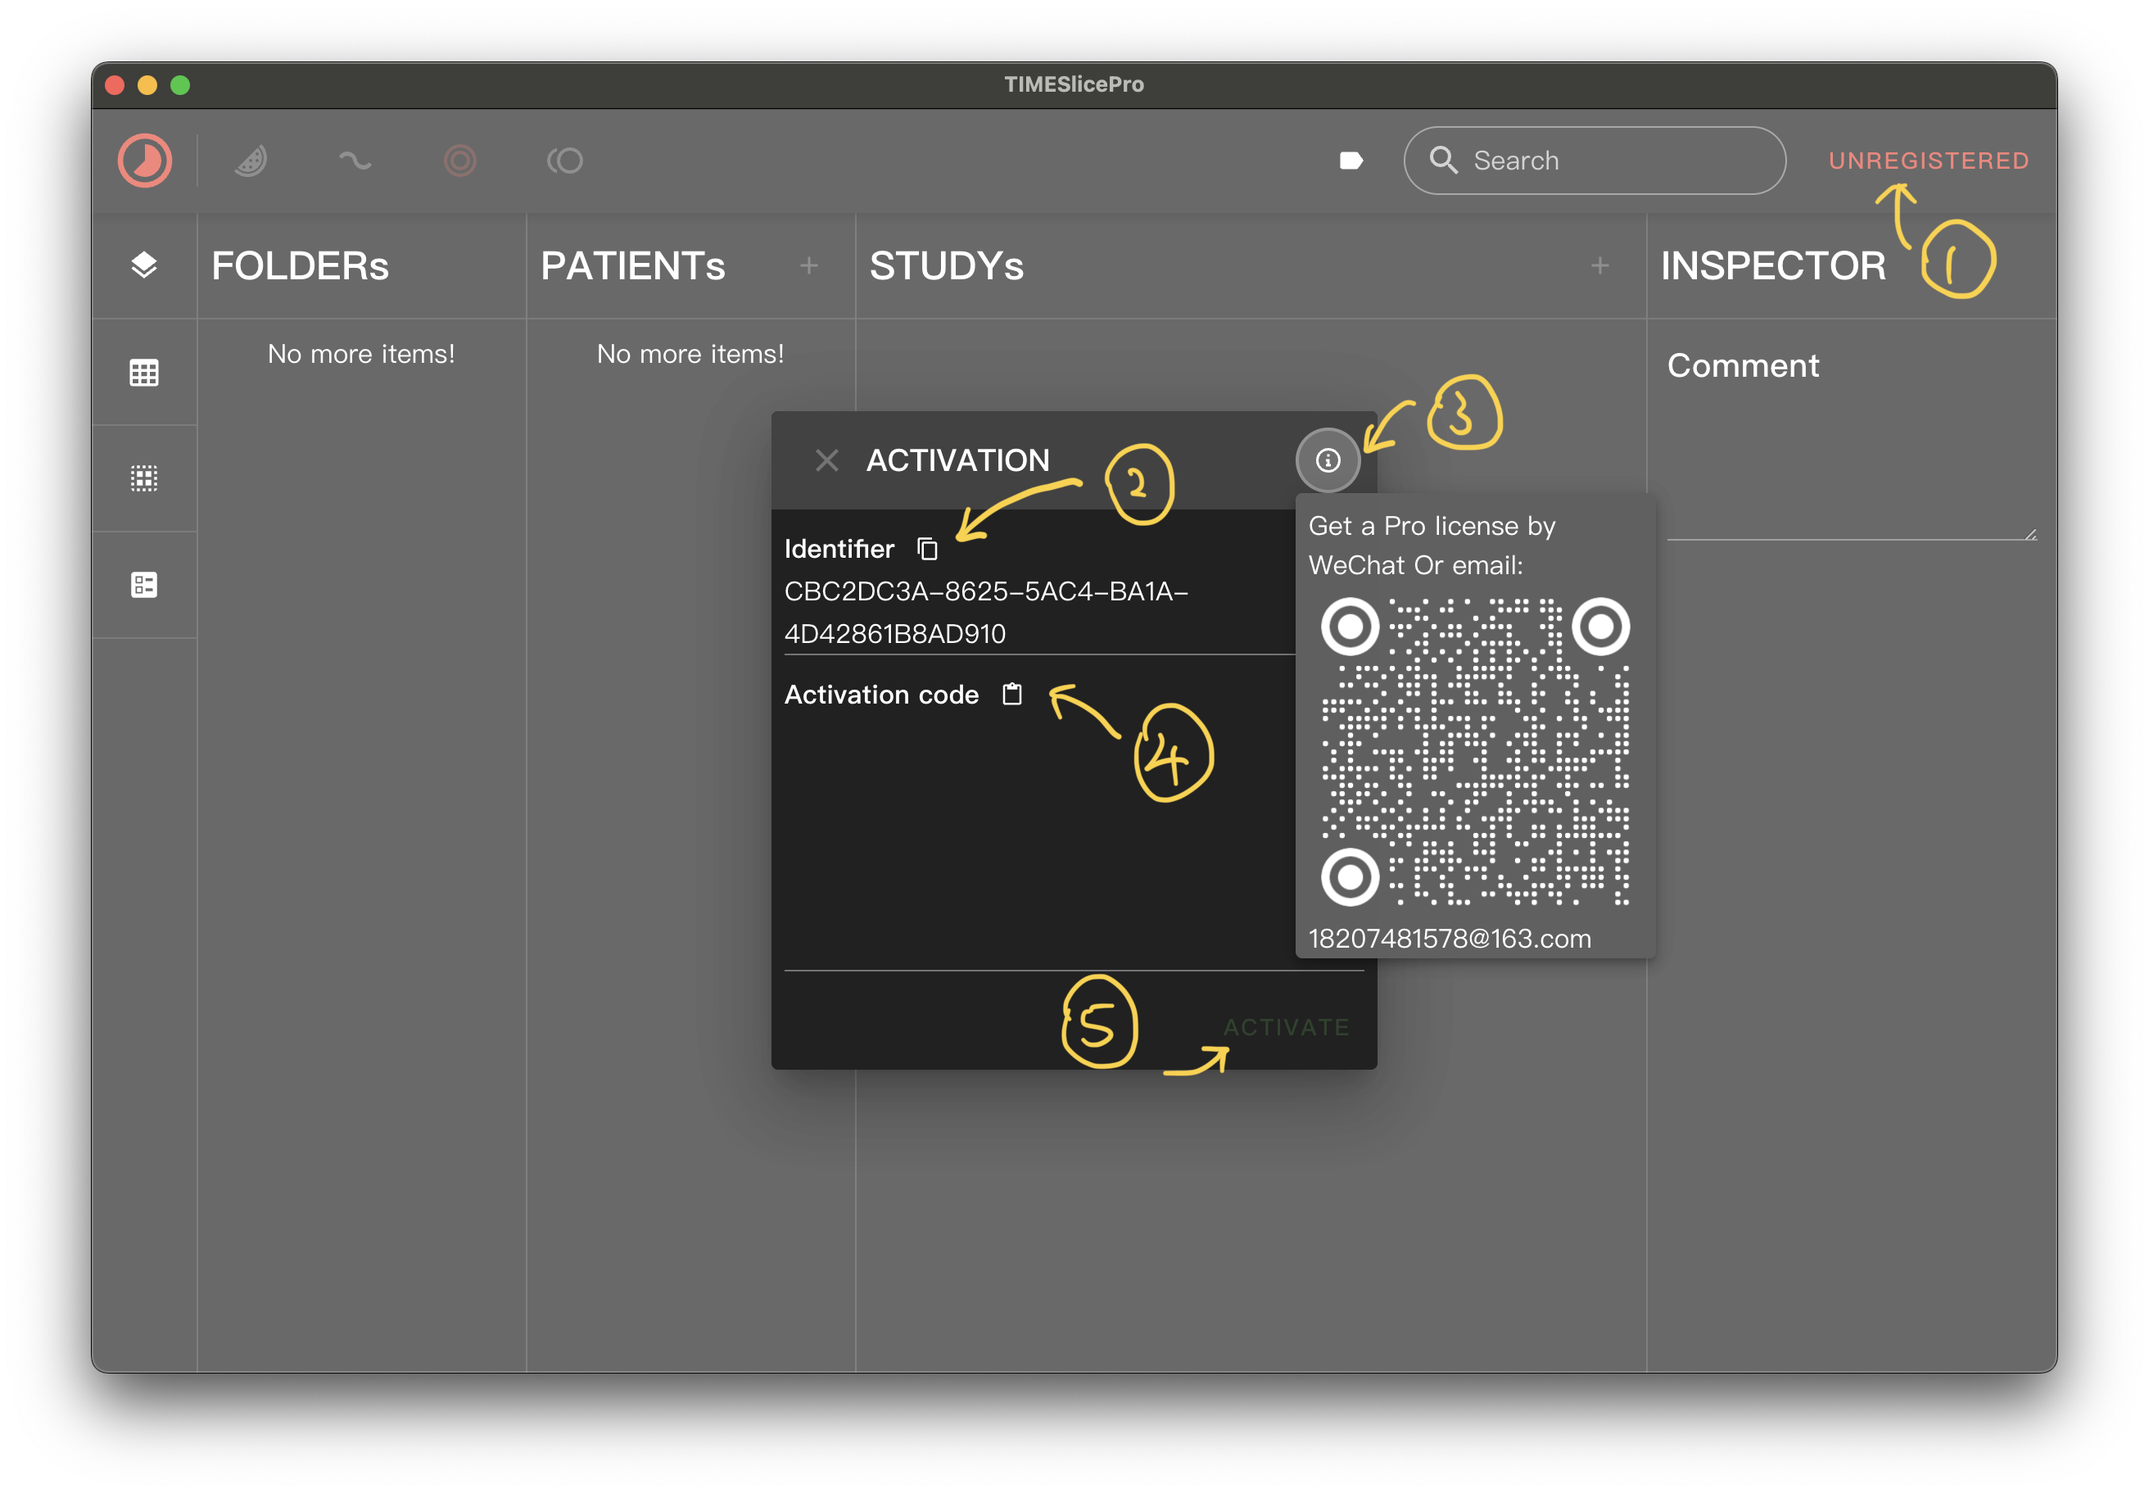
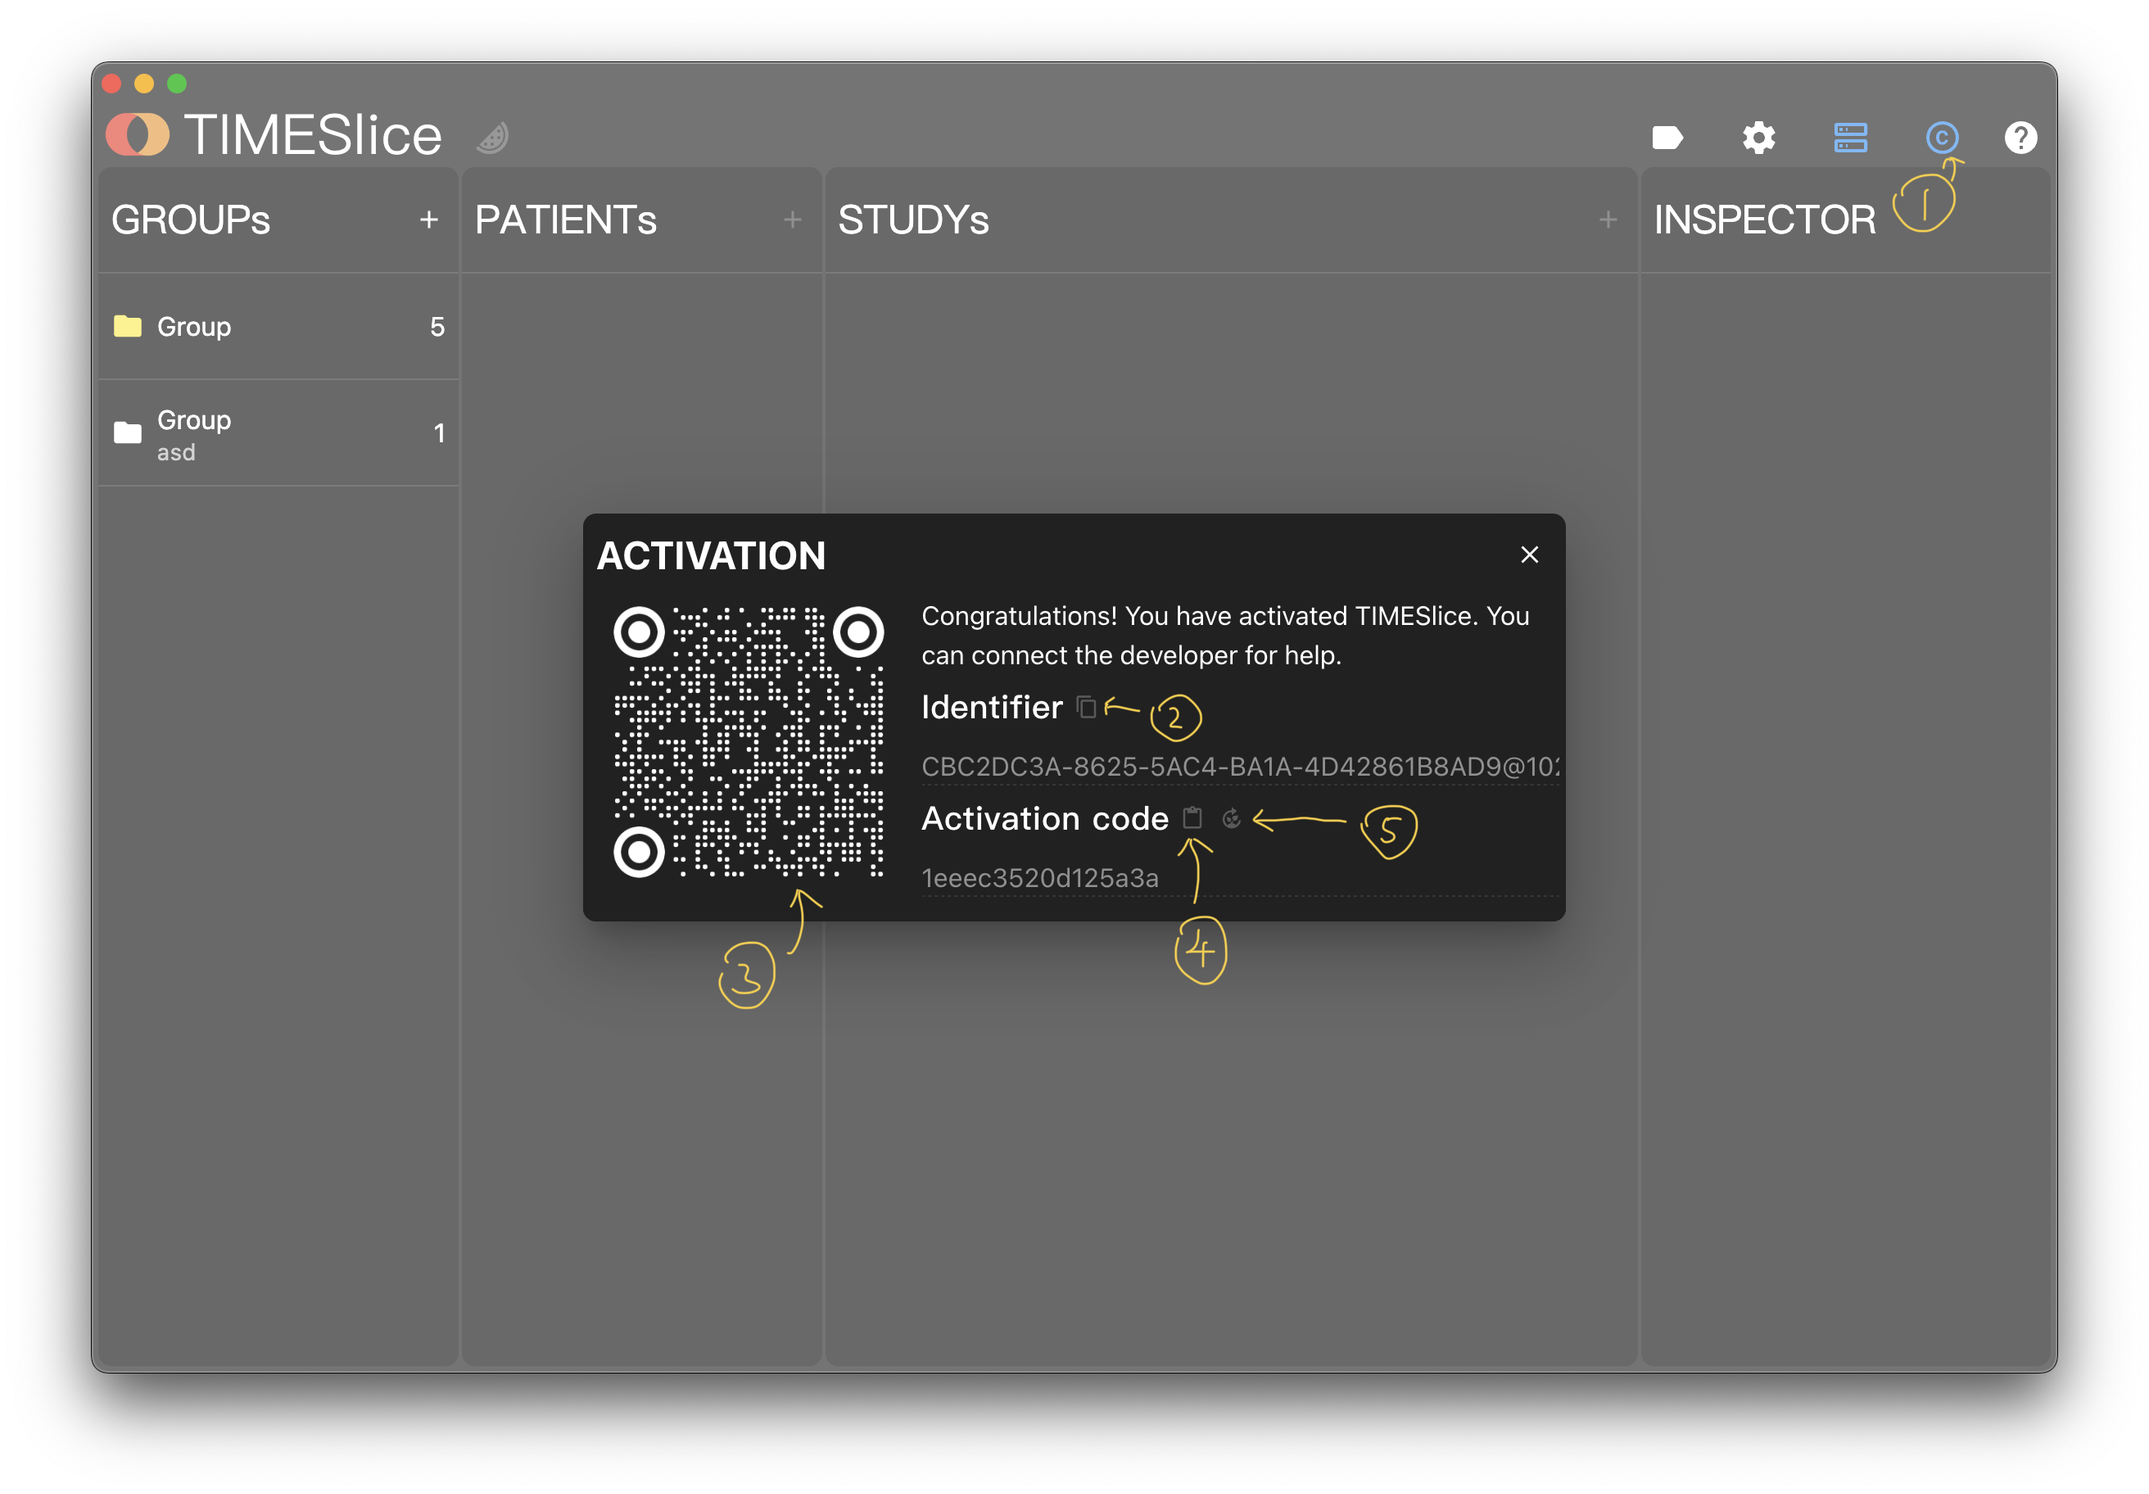
发布TIMESlice5

diff --git a/docs/.vitepress/theme/style/var.css b/docs/.vitepress/theme/style/var.css
@@ -1,9 +1,9 @@
 :root {
     /* 标题 */
     --vp-home-hero-name-color: transparent;
-    --vp-home-hero-name-background: linear-gradient( 135deg, #FFD479 10%, #FFD479 100%);
+    --vp-home-hero-name-background: linear-gradient( 135deg, #E15241 10%, #E5A14E 100%);
 
     /* 图标背景 */
-    --vp-home-hero-image-background-image: linear-gradient( 135deg, #FFD479 10%, #FFD479 100%);
+    --vp-home-hero-image-background-image: linear-gradient( 135deg, #E15241 10%, #E5A14E 100%);
     --vp-home-hero-image-filter: blur(150px);
 }

diff --git a/docs/download.md b/docs/download.md
@@ -1,32 +1,24 @@
 # 下载
 
-如果这个软件对你的论文有帮助请引用如下文献:
+如果这个软件对你的论文有帮助请引用我目前仅有的两篇文献:
 
-Li, Xiaogang, et al. "Automatic quantification of epicardial adipose tissue volume." Medical Physics 48.8 (2021): 4279-4290.
+Xiaogang Li, Lianchang Ji, Rongrong Zhang, Hongrui You, Lisheng Xu, Stephen E. Greenwald, Yu Sun, Libo Zhang, Benqiang Yang, “COACT: Coronary artery centerline tracker,” Medical Physics, p. mp.16873, Dec. 2023, doi: 10.1002/mp.16873.
 
-Li, Xiaogang, et al. "COACT: Coronary artery centerline tracker." Medical Physics 51.5 (2024): 3541-3554.
+Xiaogang Li, Yu Sun, Lisheng Xu, Stephen E. Greenwald, Libo Zhang, Rongrong Zhang, Hongrui You, Benqiang Yang, “Automatic quantification of epicardial adipose tissue volume,” Medical Physics, vol. 48, no. 8, pp. 4279–4290, Aug. 2021, doi: 10.1002/mp.15012.
 
 并将软件下载地址 (https://slice-doc.netlify.app/) 插入到文献合适位置.
 
-微信扫描如下二维码或用邮件（18207481578@163.com）开发者获得pro许可.
+微信扫描如下二维码或用邮件（18207481578@163.com）联系开发者获得许可，最好是用微信，发邮件我也会让你加微信的。
 
 ![](/images/QR.png)
 
-## 下载 MacOS Apple Silicon 版本 v5.0.0
-Coming soon...
-<!-- <a href='https://www.jianguoyun.com/p/DYKvQKYQ-MmzBhinv4AGIAA'>地址：坚果云</a> -->
+## 下载 MacOS Apple Silicon v5.0.0
 
-## 下载 MacOS Apple Silicon 版本 v4.19.0
+<a href='https://www.jianguoyun.com/p/DYKvQKYQ-MmzBhinv4AGIAA'>地址：坚果云</a>
 
-<a href='https://www.jianguoyun.com/p/DRWr1YAQ-MmzBhjA5uQFIAA'>地址：坚果云</a>
+## 下载 Windows v5.0.0
 
-## 下载 MacOS Intel 版本 v4.19.0
-
-<a href='https://www.jianguoyun.com/p/DXXDeBgQ-MmzBhikkegFIAA'>地址：坚果云</a>
-
-## 下载 Windows version v4.19.0
-
-<a href='https://www.jianguoyun.com/p/DVIeFcwQ-MmzBhiD5-QFIAA'>地址：坚果云</a>
+<a href='https://www.jianguoyun.com/p/DSjBG_QQ-MmzBhjkv4AGIAA'>地址：坚果云</a>
 
 
 ## 下载人工智能模型
@@ -44,125 +36,7 @@ Coming soon...
 ![](/images/error.png)
 
 
-# Update log
+# 更新日志
 
-## V4.19.0
-- Add cube module.
-- Fix the paint tool related problem.
-
-## V4.18.0
-- Add transformation module.
-- Add slice representation in volume view.
-- Add box representation in volume view.
-- Fix the Chinese characters related problem.
-- Fix the image direction related problem.
-
-## V4.17.0
-- Add zoom menu for adjusting window content.
-- Add move database function.
-- Add section export function.
-- Fix the Chinese characters related problem.
-
-## V4.16.0
-- Show pixel value at cursor on each view.
-- Support capturing overlay content on each view.
-- Add PAT and Plaque content in Tube module.
-
-## V4.15.0
-- Improve the seg model manager.
-- Add more settings for radiomics.
-
-## V4.14.0
-- Add volume rendering module.
-
-## V4.13.0
-- Add color manager for patient.
-- Adjust the view layout of the centerline module. 
-- Support multi rows for each patient in project module.
-- Fix some bugs.
-
-## V4.12.0
-- Add support for png and jpg image.
-- Add plug-in AI model management.
-- Separate the annotation function to a dependent module.
-- Add support for annotating the png and jpg image.
-
-## V4.11.0
-- Add image information for the Loop tool.
-- Add Lasso tool in the MPR mode.
-- Add Draw tool in the Tube module.
-- Optimize the snap function in the Seg module.
-
-## V4.10.0
-- Add more tools to quantify image.
-
-## V4.9.0
-- Add support for saving serial meta information to study.
-- Add MPR related function in seg module.
-- Add plaque length information in the section inspector.
-- Add centerline length information in the centerline inspector.
-- Add progress bar for the currently processing case.
-
-## V4.8.0
-- Make the auto seg tool working on the background.
-- Improve the speed of the auto seg tool on macOS by utilizing the GPU.
-- Add support for save some basic seg information.
-- Add support for computing the area of each seg slice.
-
-## V4.7.0
-- Add opacity selector for segmentation.
-- Add cross marker for each seg view.
-- Add screenshot function for the seg module.
-- Add switch background function for the seg module.
-- Add a new epicardium seg model for pulmonary plain CT.
-- Improve the lasso tool.
-
-## V4.6.0
-- Add the export log menu.
-- Add the project analyzing module.
-
-## V4.5.0
-- Improve the Island seg tool.
-- Improve the Lasso seg tool.
-- Add the snap function for saving the state of the seg.
-- Add a new epicardium seg model for non contrast CT.
-- Improve the stability of the activation module. If your activation code becomes invalid, connect the developer to get a new one.
-- Fix the importing problem for some Dicoms.
-
-## V4.4.0
-- Add the Island seg tool.
-- Add the Lasso seg tool.
-- Fix the launch problem in some Windows computer.
-
-## V4.3.0
-- Add the new Tube module to replace the Contour module for coronary artery plaque analysing.
-- Add the FAI function in the plaque related information list.
-- Add support for exporting the study.
-- Improve the performance of the Centerline module especially for the very long vessel.
-
-## V4.2.0
-
-- Add more settings for the radiomics panel.
-- Add suppert for running radiomics in the background for parallel computation.
-- Add support for editing the Circle object in the contour module.
-- Add support for measuring the angle between the branches in the centerline module.
-- Add support for importing nii and nrrd format series image.
-- Fix the node idx bug in the centerline module.
-- Fix the inserting node bug in the centerline module.
-- Fix the wrong unit bug of the plaque length.
-- Improve the stability of the software.
-
-## V4.1.0
-
-- Add support for switching database.
-- Add support for importing segmentation.
-- Add support for editing the content of the study
-- Add support for adding new content for the study
-- Add support for manually creating study
-- Fix the bug about deleting label
-- Fix the bug about reloading patient list
-- Improve the stability of importing table by only allowed the letter or number composed column title
-- Remove the deleting all centerlines function
-
-
-
+## v5.0.0
+- 重写了软件、专注图像分割任务

diff --git a/docs/manual/database.md b/docs/manual/database.md
@@ -1,17 +1,18 @@
 # 数据库管理
 
-软件激活后还需要选择数据库用于存储软件运行过程中的相关数据。
+数据库是一个名为TIMESliceDB的文件夹，软件第一次启动时会让你选择其存放位置，默认存放地址是文档文件夹。
 
-![](/images/database/addDatabase.png)
+::: warning 警告
+随着你的影像导入量增加，数据库文件会变得越来越大，对Windows用户来说，请不要选择C盘存放。注意，文档、桌面、下载这些文件夹都是在C盘的。
+:::
 
-1. 点击左上角<v-icon size='small' icon="mdi-timelapse" color='yellow'/>按钮打开数据库管理窗口 
-2. 点击<v-icon size='small' icon="mdi-plus" color='yellow'/>在弹出的对话框中选择一个文件夹用于存放数据库文件，数据库文件是一个名为TIMESlice.db的文件夹，请将其视为一个整体，勿手动更改其中内容，否则会使数据库崩溃 
-3. 选择一个数据库条目 
-4. 点按<span style="color:red">SELECT</span>按钮加载当前数据库，当前加载的数据库其左侧的图标<v-icon size='small' icon="mdi-database" color='green'/>为绿色 
-5. 对于当前未加载的数据库，可以点按工具栏中的<v-icon size='small' icon="mdi-arrow-up-circle-outline" color='yellow'/>按钮选择文件夹，将该数据库导入此位置，请目标位置有足够空间存放数据库 
-6. 也可以点按工具栏中的<v-icon size='small' icon="mdi-arrow-down-circle-outline" color='yellow'/>按钮选择TIMESlice.db文件导入该数据库
+如果你需要调整数据库文件夹存放位置，你可以通过以下步骤进行操作：
 
-![](/images/database/disconnect.png)
+![](/images/database/database.png)
 
-1. 选择当前加载的数据库条目
-2. 点按<span style="color:red">DISCONNECT</span>按钮断开数据库连接，未连接的数据库可以倍导出
+1. 点击打开设置对话框
+2. 点击选择目标文件夹存放数据库
+
+::: warning 警告
+请勿在TIMESlice之外手动操作任何数据库内容，否则可能会导致软件崩溃和数据库损坏。
+:::

diff --git a/docs/manual/model.md b/docs/manual/model.md
@@ -1,12 +1,17 @@
 # 模型管理
 
-自v4.12.0开始，TIMESlice将采用插件式的方式管理人工智能模型，用户可以在本网站下载所需模型，导入对应模块后即可使用。例如可以在[图像分割模型列表](./pericardiumModel)中下载所需模型，然后在图像分割模块中使用，如下：
+TIMESlice5采用插件式的方式管理人工智能模型，用户可以在本网站下载所需模型，导入对应模块后即可使用。例如可以在[图像分割模型列表](./pericardiumModel)中下载所需模型，然后在图像分割模块中使用，如下：
 ![](/images/model/modelManage.png)
-1. 在图像分割模块中
-2. 选中待处理的seg
-3. 点击<v-icon size='small' icon="mdi-steam" color='green'/>工具
-4. 点击文本框弹出模型选择界面
-5. 点击导入按钮<v-icon size='small' icon="mdi-arrow-down-circle-outline" color='green'/>导入下载好的模型
-6. 选择所需模型
-7. 点按确定
-8. 点击运行<v-icon size='small' icon="mdi-play-circle-outline" color='green'/>开始调用模型
+
+1. 选择Auto工具
+2. 点击选择模型配置面板
+3. 点击访问本站下载模型
+4. 导入下载后的模型文件
+5. 选择你需要分割的区域
+6. 加载模型
+7. 运行模型
+
+
+::: warning 警告
+某些设备可能无法访问本站，你可以用苹果设备试试，但问题是如果你不能访问本站你也看不到这条信息🐶
+:::

diff --git a/docs/QA.md b/docs/QA.md
@@ -1,0 +1,19 @@
+# Q&A
+
+## 软件运行配置
+最好有32GB内存，并有英伟达显卡。所有苹果芯片的Mac也很好用，但是分割速度可能会慢一点。
+
+## 软件使用费用
+在我还有工作的情况下，TIMESlice5可以免费使用，哪天如果失业了再说。目前初步想法是采用科研合作的方式进行授权。无需重要位置，有个名即可，没办法我也有生存压力。
+
+## mac中总是提醒软件损坏
+这是因为我没有注册苹果的开发者账号，所以无法通过苹果的验证。主要是开发者账户需要钱，而我觉得暂时可以先不投入这笔费用，临时的解决办法参看这个<a href='https://zhuanlan.zhihu.com/p/617123498?utm_id=0&utm_source=wechat_session&utm_medium=social&s_r=0'>教程</a>。
+
+## 软件需要联网吗
+这是个完全单机运行的软件，所以你不用担心数据安全问题。不过软件内部组件之间需要通过http网络协议通信，所以可能请求网络相关权限，这仅是软件内部组件之间的网络，不会涉及到互联网。事实上我感觉自己的技术还无法处理网络相关问题，所以现在连自动更新功能都还没有。
+
+## 4.0版本还能下载吗
+目前旧版本已经不再更新了。考虑到TIMESlice5目前专注图像分割功能，很多旧版本中的功能暂时都没有支持，如果实在需要可以联系开发者获取。
+
+
+

diff --git a/docs/manual/activation.md b/docs/manual/activation.md
@@ -4,8 +4,8 @@
 
 ![](/images/activation/activation.png)
 
-* 点击右上角<span style="color:red">UNREGISTERED</span>按钮
-* 点击<v-icon size='small' icon="mdi-content-copy" color='yellow'/>按键复制电脑识别码
-* 点击<v-icon size='small' icon="mdi-information-slab-circle-outline" color='yellow'/>获取开发者联系方式，并发送识别码
-* 复制激活码后点击<v-icon size='small' icon="mdi-content-paste" color='yellow'/>粘贴至文本框
-* 点击激活
+1. 点击打开激活窗口
+2. 复制电脑识别码
+3. 微信联系开发者发送识别码，获取激活码
+4. 粘贴激活码
+5. 点击激活

diff --git a/docs/index.md b/docs/index.md
@@ -18,11 +18,11 @@ hero:
       link: /download
 
 features:
-  - title: 自动
-    details: 
-  - title: 简洁
-    details: 
-  - title: 强大
-    details: 
+  - title: 🤖 自动
+    details: 采用先进的AI算法，自动识别和分割医学图像中的关键区域，大幅提高工作效率。
+  - title: ✨ 简洁
+    details: 提供直观的用户界面和简洁的操作流程，使医学图像分割变得简单易用。
+  - title: 💪 强大
+    details: 支持多种医学影像格式，配备强大的后处理功能，确保分割结果的精确性和可靠性。
 ---
 

diff --git a/docs/manual/index.md b/docs/manual/index.md
@@ -1,3 +1,3 @@
 # 简介
 
-TIMESlice是一款医学数据管理软件，也是一款医学图像处理软件。目前已实现的功能包括影像数据和临床表格数据管理、患者入组排出筛查、图像分割、影像组学参数提取、冠脉中心线识别和走形分析、冠脉斑块分析等.
+TIMESlice5专注医学图像分割任务，提供多种自动、手动分割工具。没了。

diff --git a/docs/manual/help.md b/docs/manual/help.md
@@ -1,0 +1,14 @@
+# 帮助
+
+TIMESlice5中内置了帮助功能。
+
+![](/images/help/help.png)
+
+* 打开帮助面板
+* 可打开tooltip功能，打开后鼠标悬停在图标上会显示提示信息
+* 导出日志文件，将日志文件发送给开发者获取帮助
+* 查看详细教程
+
+点击TIMESlice5图标可查看当前版本号
+
+![](/images/help/version.png)

diff --git a/docs/manual/pericardiumModel.md b/docs/manual/pericardiumModel.md
@@ -12,6 +12,9 @@
 ## 胸廓
 <a href='https://www.jianguoyun.com/p/DSaALv8Q-MmzBhi8v4AGIAA'>Thoracic v2.0</a>
 
+## 肺叶
+<a href='https://www.jianguoyun.com/p/DYETKD8Q-MmzBhjMv4AGIAA'>Respiratory v2.0</a>
+
 ## 腹腔
 <a href='https://www.jianguoyun.com/p/DWJ4DuEQ-MmzBhjZv4AGIAA'>Abdomen v2.0</a>
 
